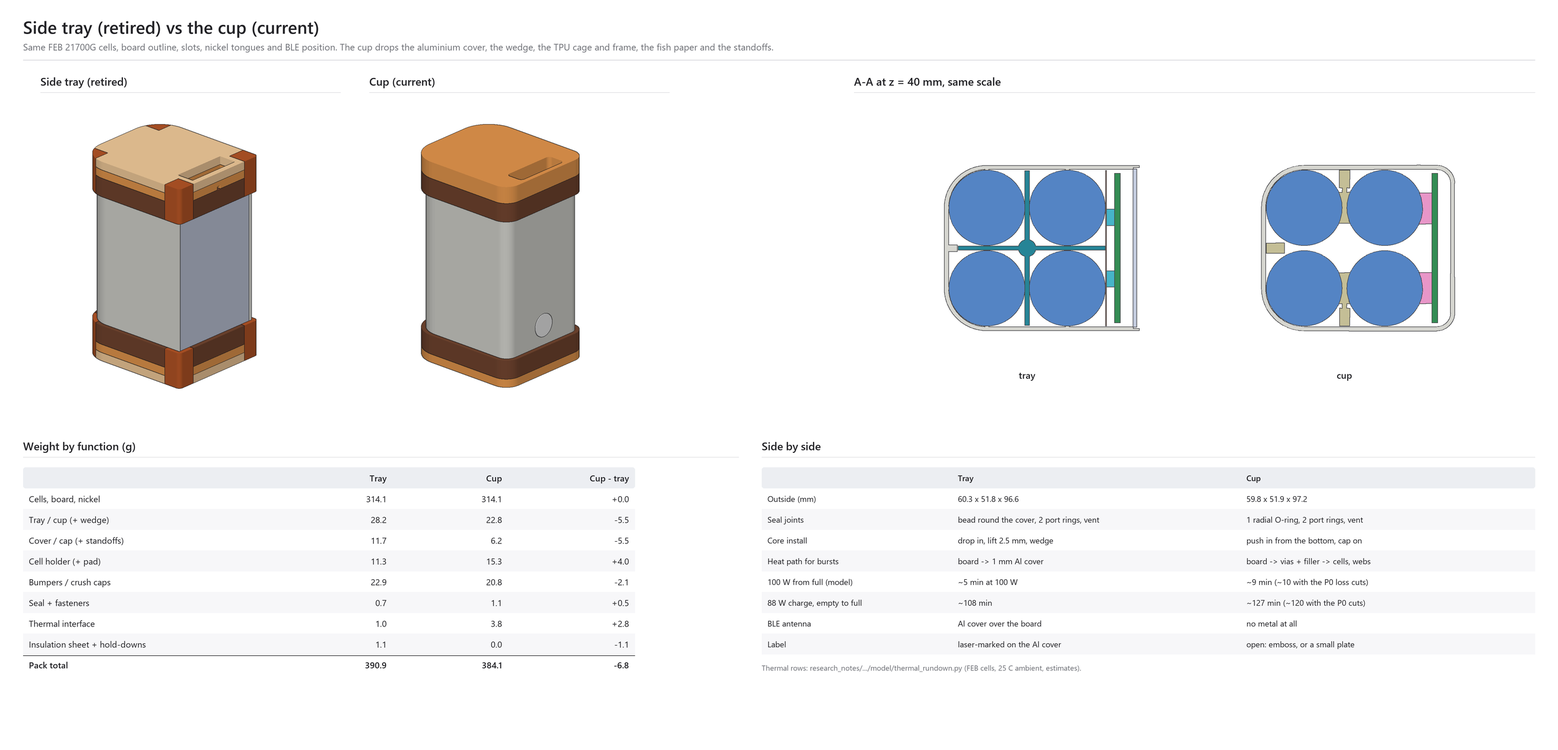
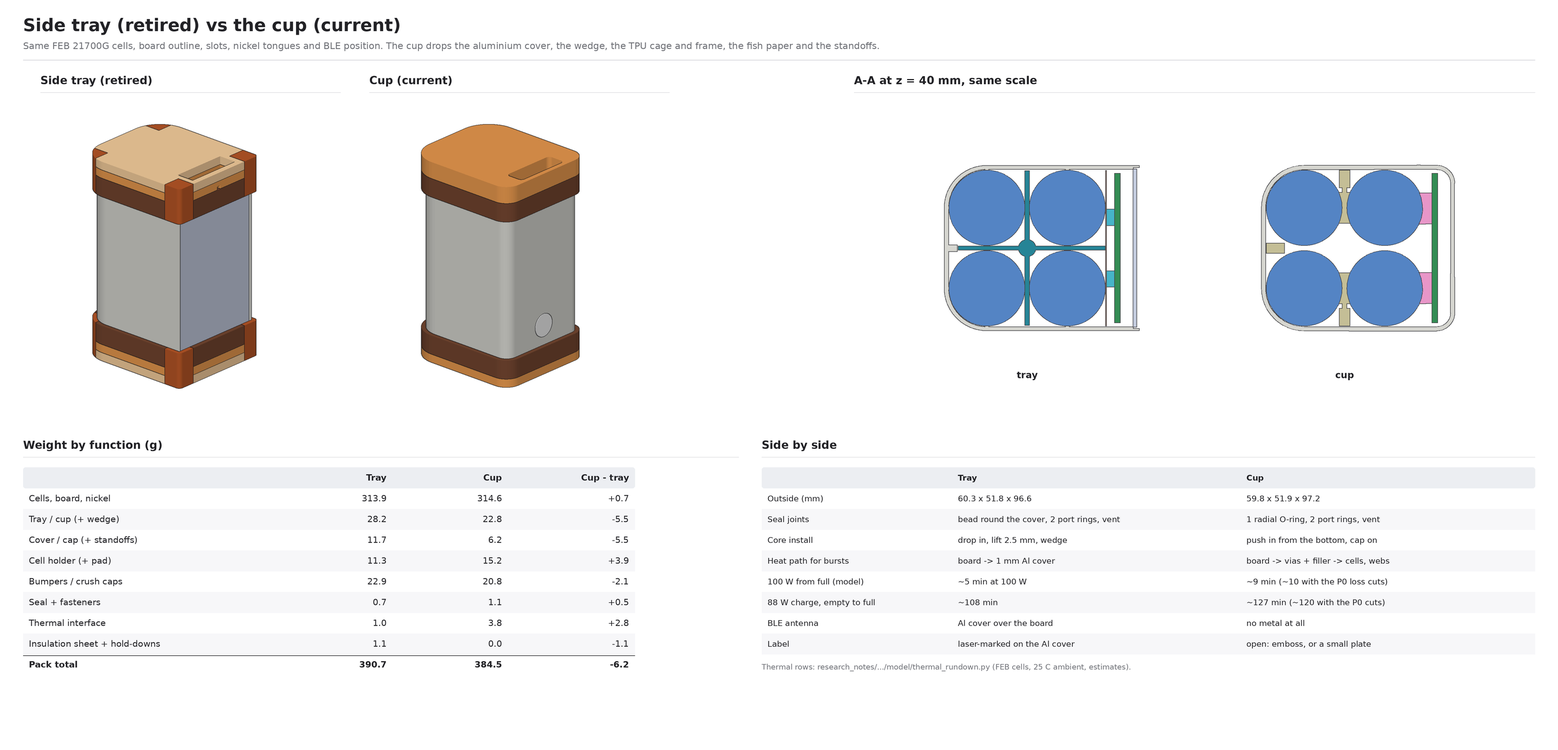
PACK wires to 18 AWG; draw the wire tails in the model
- monolith_shell: 18 AWG thin-wall PTFE power wire (1.45 mm OD), PACK holes 1.3 -> 1.5 mm finished;
  loss print 0.66 mOhm / 0.06 W per end. Side PCB DXF regenerated.
- monolith_parts: nickel_strips() draws the PACK ends as pads (option C) unless pack='tab';
  new pack_wires() for the power and Kelvin wires. Cup assembly, parts list and legend use them.
- Carrier STL (wider power-wire notches) and cup sheets regenerated; wires clear the notched frame.
- spec.md, p0-assembly.md, spot-welding.md: 18 AWG, 1.5 mm holes, loss cut 4 re-scaled (3.9 of 4.4 mOhm).

Claude-Session: https://claude.ai/code/session_01HPr6VYkforG3yX6YkC5z8D

diff --git a/hardware/mechanical/monolith_cup.py b/hardware/mechanical/monolith_cup.py
@@ -42,7 +42,7 @@ WIN_R = 7.0                        # weld / + cap windows in the frames
 FILL_Z = (27.0, 53.0)              # gap filler, board B.Cu to the two front cells, over the power stages
 RAIL_GAP = (25.0, 55.0)            # board rails stop here so the filler reaches the cell tangents
 WIRE_NOTCH_CLR = 0.2               # PACK / Kelvin wire notches through the bottom frame: clearance each side of the wire
-RAIL_RELIEF_Y = 7.6                # below SB_BAR_Z0 the rails keep only |y| <= this, so the PACK tabs and Kelvin fingers pass
+RAIL_RELIEF_Y = 7.6                # below SB_BAR_Z0 the rails keep only |y| <= this, so the PACK and Kelvin wires pass
 WEB_X, WEB_IN, WEB_CLR, WEB_LINK = 2.0, 4.5, 0.05, 0.6   # front-back webs (heat sharing), link out to the side spine
 BUMP_T_TOP, BUMP_T_BOT, BUMP_BAND, BUMP_WALL = 8.0, 4.0, 9.0, 2.0
 PORT_X, PORT_YS = S.sb_port_x, (-S.SB_PORT_Y, S.SB_PORT_Y)
@@ -146,6 +146,7 @@ def assembly():
     for x, y in CELLS: A.append(('cell', mv(cell, (x, y, S.sb_z_cell0)), C['cell']))
     A += [('carrier', tris(carrier()), C['carrier']), ('filler', tris(filler()), C['filler']),
           ('nickel', P.nickel_strips('strips'), C['nickel']), ('tails', P.nickel_strips('tails'), C['tail']),
+          ('tails_wire', P.pack_wires(), C['wire']),
           ('board', P.side_board_dummy(), C['board']), ('ble', P.ble_module(), C['ble']),
           ('pad', tris(pad()), C['pad']), ('oring', tris(oring()), C['oring']), ('cap', tris(cap()), C['cap']),
           ('screw', tris(screws()), C['screw']), ('vent', tris(cylx(VENT_Y, VENT_Z, 5.5, X_IN + WALL, X_IN + WALL + 0.3)), C['vent'])]
@@ -156,7 +157,7 @@ def assembly():
 def group(k): return k.split('_')[0]
 PARTS = [(1, 'Cell carrier: frames, spines, split rails, pegs, front-back webs', 'MJF PA12', 'carrier'),
          (2, 'Cells C1-C4, welded 4S', 'FEB 21700G 6500 mAh', 'cell'),
-         (3, 'Nickel series strips (3)', 'nickel 0.15', 'nickel'), (4, 'Nickel tongues: PACK+/- (power + Kelvin), CELL1-3', 'nickel 0.15 / 0.2', 'tails'),
+         (3, 'Nickel series strips (3)', 'nickel 0.2 x 10', 'nickel'), (4, 'CELL1-3 tails; PACK pads, 18 / 28 AWG wires', 'nickel; PTFE wire', 'tails'),
          (5, 'Gap filler, board to the front cells (dispensed)', '~3 W/mK, 2.6 g/cm3', 'filler'),
          (6, 'Board 1.6 mm, thermal vias under the power stages', 'FR4, 6 layers', 'board'),
          (7, 'Cup: 5 closed sides, USB-C seal bores in the top wall', 'MJF PA12, 1.2 mm', 'cup'),
@@ -191,11 +192,11 @@ def checks():
         'O-ring groove inside the skirt (z)': min(GROOVE_Z[0] - Z_MOUTH, Z_SKIRT1 - GROOVE_Z[1]) - 1.0,
         'screws below the O-ring (outside the seal, z)': (GROOVE_Z[0] - 0.3) - (SCREW_Z + 1.0),
         'board rails clear of the BLE module (y)': S.sb_ant_y[0] - S.SB_BAR_Y[1] - 0.3,
-        'board rails clear of the PACK tabs (y, rail stub to the Kelvin fingers)': min(abs(y0) for n in ('PACK-', 'PACK+')
+        'board rails clear of the PACK pads (y, rail stub to the pad edge)': min(abs(y0) for n in ('PACK-', 'PACK+')
                                                        for y0, y1 in S.sb_fingers(n).values() for y0 in (y0, y1)) - RAIL_RELIEF_Y - 0.5,
         'wire notches: frame left between the power and Kelvin notches (y, >= 1.0)': min(abs(S.sb_pack_holes()[n][0]) - S.SB_PWIRE_OD/2 for n in ('PACK-', 'PACK+'))
                                                        - (abs(S.sb_slots()['4P'][0]) + S.SB_KWIRE_OD/2) - 2*WIRE_NOTCH_CLR - 1.0,
-        'board rails clear of the PACK tabs (z, rail above the tabs)': S.SB_BAR_Z0 - (S.sb_z_tail_b + 0.5),
+        'board rails clear of the PACK pads (z, rail above the pads)': S.SB_BAR_Z0 - (S.sb_z_tail_b + 0.5),
         'gap filler below the BLE module (z)': (S.sb_ant_zc - S.SB_ANT_MOD[0]/2) - FILL_Z[1] - 1.0,
         'webs: room between front and back cells (gap - 2 x clearance)': (2*PR - 2*CR) - 2*WEB_CLR,
         'bore corner radius >= 2 x O-ring cord': R_FRONT - 2*ORING_CS,
@@ -205,7 +206,7 @@ def checks():
 SS, INK, MUTED, RULE, ACCENT = RR.SS, RR.INK, RR.MUTED, RR.RULE, RR.ACCENT
 LEG = [('PA12 cup', C['cup']), ('PA12 cap', C['cap']), ('PA12 carrier', C['carrier']), ('cells', C['cell']), ('board', C['board']),
        ('BLE module', C['ble']), ('gap filler', C['filler']), ('O-ring', C['oring']), ('screw', C['screw']),
-       ('TPU pad / bumper slab', C['pad']), ('TPU bumper band', C['bump']), ('nickel strip', C['nickel']), ('nickel tongue', C['tail'])]
+       ('TPU pad / bumper slab', C['pad']), ('TPU bumper band', C['bump']), ('nickel strip', C['nickel']), ('nickel tail / pad', C['tail']), ('PACK wire', C['wire'])]
 def save(sh, name): sh.img.resize((sh.W, sh.H), Image.LANCZOS).save(os.path.join(HERE, name)); print('wrote', name)
 def balloons(sh, pid, gid, BAL, dist=70):
     for g_ in dict.fromkeys(gid):

diff --git a/hardware/mechanical/monolith_parts.py b/hardware/mechanical/monolith_parts.py
@@ -419,9 +419,12 @@ def _top_tail(sy):
     return [_box(S.sb_pr - 0.01, TAIL_DOWN_X + t, yc - w, yc + w, z0, z0 + t),
             _box(TAIL_DOWN_X, TAIL_DOWN_X + t, yc - w, yc + w, zs - t / 2, z0),
             _box(TAIL_DOWN_X, SLOT_OUT, yc - w, yc + w, zs - t / 2, zs + t / 2)]
-def nickel_strips(which='all'):
-    """series strips, the two split PACK tabs and the three sense tails; bought nickel, not printed.
-    which: 'all', 'strips' (series strips only) or 'tails' (PACK tabs and sense tails only)"""
+PACK_PAD_L = 10.0                             # PACK pad length along x, from 3.5 mm inside the cell centre
+def nickel_strips(which='all', pack='wire'):
+    """series strips, the two PACK ends and the three sense tails; bought nickel, not printed.
+    which: 'all', 'strips' (series strips only) or 'tails' (PACK ends and sense tails only).
+    pack: 'wire' (option C, 2026-10-24: a nickel pad on each PACK end, the wires are pack_wires()) or 'tab' (the split
+    nickel tabs of the retired side tray)"""
     t, hw, pr = S.SB_TAB_T, S.SB_TAB_W / 2, S.sb_pr
     zt0, zb1 = S.sb_z_tail_t, S.sb_z_tail_b
     B = []
@@ -431,11 +434,27 @@ def nickel_strips(which='all'):
               _box(-pr - hw, -pr + hw, -pr, pr, zb1 - t, zb1)]         # C2+ -> C3-  (CELL2), bottom
     if which in ('all', 'tails'):
         T = S.SB_PACK_T
-        for n, yc in S.sb_tab_y.items():                           # PACK tabs: whole to the board side, then split
-            B.append(_box(pr - hw, aS, yc - hw, yc + hw, zb1 - T, zb1))
+        for n, yc in S.sb_tab_y.items():
+            if pack == 'wire':                                     # PACK pads, inside the weld window
+                B.append(_box(pr - S.SB_TAB_W / 2, pr - S.SB_TAB_W / 2 + PACK_PAD_L, yc - hw, yc + hw, zb1 - T, zb1))
+                continue
+            B.append(_box(pr - hw, aS, yc - hw, yc + hw, zb1 - T, zb1))   # PACK tabs: whole to the board side, then split
             for y0, y1 in S.sb_fingers(n).values(): B += _bottom_tail(aS - 0.01, y0, y1, T)
         B += _bottom_tail(-pr + hw - 0.01, -S.SB_TAIL_W / 2, S.SB_TAIL_W / 2, t)    # CELL2
         B += _top_tail(-1) + _top_tail(1)                                            # CELL1, CELL3
+    return np.vstack(B)
+
+def pack_wires():
+    """PACK wire tails (option C): the 18 AWG power and 28 AWG Kelvin wires, soldered under each PACK pad, along their
+    frame notches, across the gap behind the board and through it (square-section stand-ins for the round wires)"""
+    pz0 = S.sb_z_tail_b - S.SB_PACK_T; xs = S.sb_pr + 1.0; xb = S.sb_ac + 0.6; B = []
+    for n in ('PACK-', 'PACK+'):
+        yh, zh, _ = S.sb_pack_holes()[n]; k = '4P' if yh > 0 else '1N'; yk, zk, _ = S.sb_slots()[k]
+        for y, zc, od, cu in ((yh, zh, S.SB_PWIRE_OD, 1.2), (yk, zk, S.SB_KWIRE_OD, 0.32)):
+            r = od / 2
+            B += [_box(xs, xb, y - r, y + r, pz0 - od, pz0),                          # under the pad, along the notch
+                  _box(xb - r, S.sb_xb0, y - r, y + r, pz0 - od, max(pz0, zc + r)),   # up across the gap
+                  _box(S.sb_xb0, S.sb_xb1 + 0.8, y - cu / 2, y + cu / 2, zc - cu / 2, zc + cu / 2)]   # conductor through
     return np.vstack(B)
 
 # ---- cell frame (TPU, rides with the module): ring carrier under the cells, top frame with the bars ----

diff --git a/hardware/mechanical/monolith_shell.py b/hardware/mechanical/monolith_shell.py
@@ -255,12 +255,12 @@ SB_TAIL_TOP_Z = 72.0                 # CELL1 / CELL3 slots (a 5 mm drop behind t
 SB_SLOT_W, SB_SLOT_CLR, SB_SLOT_RING = 0.6, 0.4, 0.4    # plated slot: width (z), length over the tail (y), annular ring
 SB_KINK = (23.35, 24.55, 1.0)        # strain-relief kink in the bottom tails: x from, x to, depth (+0.35 with the FEB cell)
 SB_WIRE_D = 0.8                      # (legacy)
-# PACK wire tails (option C, 2026-10-24): each PACK power path is a 20 AWG PTFE wire, bench-soldered to a 0.2 x 7 nickel
+# PACK wire tails (option C, 2026-10-24): each PACK power path is an 18 AWG PTFE wire, bench-soldered to a 0.2 x 7 nickel
 # pad that is welded to the cell end inside the weld window. It runs through a notch in the carrier's bottom frame
 # (monolith_cup.py), crosses the gap behind the board and is soldered into a plated hole. The Kelvin side (1N / 4P) is
 # a 28 AWG PTFE wire from the same pad, through its own notch, into the existing Kelvin slot.
-SB_PWIRE_OD, SB_KWIRE_OD = 1.2, 0.6  # 20 AWG / 28 AWG PTFE, outside diameter
-SB_PWIRE_HOLE, SB_PWIRE_RING = 1.3, 0.4   # PACK wire plated hole (finished) and its annular ring
+SB_PWIRE_OD, SB_KWIRE_OD = 1.45, 0.6  # 18 AWG thin-wall PTFE (M22759/11-18, 1.37 max) / 28 AWG PTFE, outside diameter
+SB_PWIRE_HOLE, SB_PWIRE_RING = 1.5, 0.4   # PACK wire plated hole (finished; 19/30 strand ~1.22 mm) and its annular ring
 SB_PWIRE_Z = 5.75                    # hole centre: as low as the ring allows over the board's bottom edge
 # derived (x across the board, y along the board width, z along the cells)
 sb_pr = (CELL_D + SB_CAGE_WEB + 2 * SB_CAGE_CLR) / 2   # cell centres at (+-sb_pr, +-sb_pr)
@@ -431,8 +431,8 @@ if __name__ == '__main__':
           for n, (y, z, l) in sb_slots().items()) + f"; slot width {SB_SLOT_W}")
     print("PACK wire holes (KiCad x, y, finished dia): " + ", ".join(f"{n} {kicad(y, z)[0]:.2f}, {kicad(y, z)[1]:.2f}, {d}"
           for n, (y, z, d) in sb_pack_holes().items()) + f"; ring {SB_PWIRE_RING}")
-    r = 6.99e-8 * 0.007 / (7 * SB_PACK_T * 1e-6) + 3.33e-2 * 0.015     # ~7 mm of 0.2 x 7 nickel pad + ~15 mm of 20 AWG
-    print(f"PACK pad + 20 AWG wire: {r*1e3:.2f} mOhm, {9.4**2*r:.2f} W at 9.4 A per tab")
+    r = 6.99e-8 * 0.007 / (7 * SB_PACK_T * 1e-6) + 2.09e-2 * 0.015     # ~7 mm of 0.2 x 7 nickel pad + ~15 mm of 18 AWG
+    print(f"PACK pad + 18 AWG wire: {r*1e3:.2f} mOhm, {9.4**2*r:.2f} W at 9.4 A per tab")
     ys = np.array([0, 2, 4, 6, 8, 15, 18, 21])
     print("inner-face free height vs y: " + ", ".join(f"{y:g}:{d:.1f}" for y, d in zip(ys, side_groove_depth(ys))))
     # assembly checks (positive = clearance)

diff --git a/docs/spec.md b/docs/spec.md
@@ -41,7 +41,7 @@ The pack is four BAK N21700CX-65E 6500 mAh cells in 4S1P, adopted on 2026-10-23 
 | Cycle life | ≥ 80 % at 501 cycles (0.5C charge / 1C discharge, 4.2–2.5 V) |
 | Price | $9.25–9.75 each, bare, no protection. Sold out at both US sellers on 10-23 |
 
-- **Interconnect:** spot-welded pure nickel, with an AWithZ P20B (`docs/production/spot-welding.md`). Series strips 0.2 × 10 mm; the three cell taps are nickel tails through plated slots. **PACK− / PACK+ are wire tails (option C, 2026-10-24):** a 0.2 × 7 mm nickel pad welded to the cell, with a 20 AWG PTFE power wire and a 28 AWG PTFE Kelvin wire soldered to it on the bench. The power wire goes into a Ø1.3 mm plated hole, the Kelvin wire into its slot, through notches in the carrier's bottom frame. Everything is soldered on F.Cu. No springs or connectors.
+- **Interconnect:** spot-welded pure nickel, with an AWithZ P20B (`docs/production/spot-welding.md`). Series strips 0.2 × 10 mm; the three cell taps are nickel tails through plated slots. **PACK− / PACK+ are wire tails (option C, 2026-10-24):** a 0.2 × 7 mm nickel pad welded to the cell, with an 18 AWG thin-wall PTFE power wire (Logan, 2026-10-24) and a 28 AWG PTFE Kelvin wire soldered to it on the bench. The power wire goes into a Ø1.5 mm plated hole, the Kelvin wire into its slot, through notches in the carrier's bottom frame. Everything is soldered on F.Cu. No springs or connectors.
 - **Matching:** all four from one batch, within 10 mV and 1 mΩ (AC 1 kHz). Measure each diameter; the cup is designed to 21.85 mm.
 - **Carrier:** an MJF PA12 carrier holds the cells at 23.25 mm pitch, with webs between the front and back pairs. The board's heat goes into the two front cells, so those run hottest.
 - **Short circuit:** about 220–270 A from the cells' DC resistance (estimated at 12–16 mΩ, since BAK gives no DC figure), and up to about 370 A from the datasheet's ≤ 8 mΩ AC figure, which is closer to how a cell behaves in the first 100 µs of a short. It was 150–200 A with the FEB. This is why the protection FETs change to the BSC007N04LS6 (see Battery management and protection).
@@ -154,7 +154,7 @@ The production P0 board is the design of record and the first board planned to b
 
 **P0 board changes still to apply:**
 
-- [ ] Move the five bottom tab slots 0.30 mm for the 6500 mAh cells and recheck them for the 65E (0.05 mm longer than the FEB); replace the PACK− / PACK+ power slots with Ø1.3 plated holes at KiCad (86.97, 135.73) and (113.03, 135.73) and add the `BCU_WIRE_RUNS` keep-outs (option C); run Update PCB from Schematic (R413/R513 = 0 Ω); apply the four loss cuts (BSC007N04LS6 protection FETs on a new 5 × 6 TDSON-8 FL footprint, gate-drive LDOs, XGL7030-332 with R412/R512 = 49.9k)
+- [ ] Move the five bottom tab slots 0.30 mm for the 6500 mAh cells and recheck them for the 65E (0.05 mm longer than the FEB); replace the PACK− / PACK+ power slots with Ø1.5 plated holes at KiCad (86.97, 135.73) and (113.03, 135.73) and add the `BCU_WIRE_RUNS` keep-outs (option C); run Update PCB from Schematic (R413/R513 = 0 Ω); apply the four loss cuts (BSC007N04LS6 protection FETs on a new 5 × 6 TDSON-8 FL footprint, gate-drive LDOs, XGL7030-332 with R412/R512 = 49.9k)
 - [ ] Cup changes: B.Cu gap-filler zone with a dense thermal-via array, split carrier rails, two Ø2.0 mm peg holes, remove the cover standoffs H101–H104, rerun `make_board.py --keepouts` for the cup
 - [ ] Fix DRC: port 1's stage (U403, Q402, C434, R446, R447) sits in the antenna keep-out; L401 is on B.Cu and belongs on F.Cu
 - [ ] Make C302–C304 0402 instead of 0201; remove the four stranded VBUS traces
@@ -189,7 +189,7 @@ Twenty conflicts turned up. The first eight changed what gets built or coded; Lo
 | 12 | Port protection | Project notes: TPD4S201 with liquid detection | P0 10-18: TPD6S300, liquid detection removed | TPD6S300 |
 | 13 | Charger FETs and inductor | Project notes, dev board: 4 × PGQ04N070, XAL7030-222 | P0: 2 × SiZ240DT, APS0730M2R2F; loss study proposes XGL7030-332 at 500 kHz | P0 parts |
 | 14 | Idle current | Project notes: \~230 µA. P0 low-profile section: "\~150 µA budget" | P0 README: TPD6S300s add \~175 µA | \~400 µA |
-| 15 | Pack wiring on P0 | `p0-bringup-and-training.md`: 16 AWG wire pads J108/J112 | `p0-assembly.md`: nickel tails through plated slots | Slots for the cell taps; PACK± are 20 AWG wires in Ø1.3 plated holes (10-24) |
+| 15 | Pack wiring on P0 | `p0-bringup-and-training.md`: 16 AWG wire pads J108/J112 | `p0-assembly.md`: nickel tails through plated slots | Slots for the cell taps; PACK± are 18 AWG wires in Ø1.5 plated holes (10-24) |
 | 16 | Production board size | Project notes, repo checklist: \~44 × 44 mm double-sided board at the top cap, 0.8 mm, 4 layers | P0: 43.2 × 74.35 mm side board, 1.6 mm, 6 layers | P0 |
 | 17 | Checklist docs | Repo checklist: 10-11 base with STM32WB pin map, ProtoFlow, 10-18 header | Project notes: 10-16 rewrite for the CC2340. Both predate the FEB cells and the cup | This spec |
 | 18 | MCU in older notes | EEPROM programming notes: STM32WB, separate IRQ pins | CC2340, one IRQ\_N line | CC2340 (method unchanged) |
@@ -285,7 +285,7 @@ Logan answered the open questions on 2026-10-23. He approved all four loss cuts 
 | Cells | BAK N21700CX-65E replaces the FEB 21700G | 91 Wh typical (88.9 Wh minimum). Short-circuit current rises to about 220–300 A (checks under Battery management). Firmware keeps the 4.55 A ceiling and the FEB ramp until BAK's table is confirmed. New chemistry ID |
 | Source of truth | This spec goes in the repo as `docs/spec.md` and replaces both next-actions files | Repo PR opened |
 | Spot welder (10-23) | AWithZ P20B; the kWeld plus kCap is dropped | Mains powered, rated 0.3 mm nickel; handheld pens weld through the carrier windows (`docs/production/spot-welding.md`) |
-| PACK tails (10-24) | Wire tails (option C) | Two Ø1.3 plated holes on the board, four carrier frame notches, wires soldered to the nickel pads on the bench. Options compared in `docs/production/pack-tail-options.html` |
+| PACK tails (10-24) | Wire tails (option C), 18 AWG power wires | Two Ø1.5 plated holes on the board, four carrier frame notches, wires soldered to the nickel pads on the bench. Options compared in `docs/production/pack-tail-options.html` |
 
 ## Decided: the charge-ceiling resistor (R413 / R513)
 
@@ -314,8 +314,8 @@ The numbers come from the 2026-10-21 loss study (`research_notes/Loss reduction/
 | 1. Protection FETs → XRS120N04D | 0.03 W | 0.45 W | 0.77 W | 0.18 W | +$0.14 | Part fields only |
 | 2. 9 V gate drive per port | 0 | 0.38–0.43 W | 0.72 W | 0.22 W | +$2–4 | \~25 mm² per port, new parts |
 | 3. XGL7030-332 inductor + 500 kHz | 0.16 W | 0.49 W | 0.76 W | 0.26 W | +$3.2 | Same footprint; one resistor change |
-| 4. Thicker nickel strips, wire PACK tails | 0.02 W | 0.21 W | 0.37 W | 0.11 W | \~$5 | Two Ø1.3 plated holes replace the power slots; carrier frame notches |
-| **Total** | **\~0.2 W** | **\~1.55 W** | **\~2.6 W** | **\~0.75 W** |  |  |
+| 4. Thicker nickel strips, wire PACK tails | 0.02 W | 0.23 W | 0.41 W | 0.12 W | \~$5 | Two Ø1.5 plated holes replace the power slots; carrier frame notches |
+| **Total** | **\~0.2 W** | **\~1.6 W** | **\~2.65 W** | **\~0.8 W** |  |  |
 
 ### 1. Protection FETs: AGM404AP1 → XNRUSEMI XRS120N04D (BSC007N04LS6 since 10-23)
 
@@ -344,8 +344,8 @@ The numbers come from the 2026-10-21 loss study (`research_notes/Loss reduction/
 
 ### 4. Thicker nickel strips and wire PACK tails (option C, 2026-10-24)
 
-- **What:** series strips go from 0.15 × 7 mm to 0.2 × 10 mm pure nickel. The PACK tails become a nickel pad welded at the cell end, with a 20 AWG power wire and a 28 AWG Kelvin wire soldered to it on the bench (in place of the copper tails the 10-21 study proposed). The interconnect drops from about 8.5 mΩ to about 5.0 mΩ. The savings in the table are scaled from the study by resistance (3.5 of 4.4 mΩ).
-- **Cost:** about $5 of strip and wire, under 1 g. Board: the two PACK power slots become Ø1.3 mm plated holes at z 5.75 (`sb_pack_holes()`), with `BCU_WIRE_RUNS` keep-outs. Carrier: four notches through the bottom frame (`wire_notches()`).
+- **What:** series strips go from 0.15 × 7 mm to 0.2 × 10 mm pure nickel. The PACK tails become a nickel pad welded at the cell end, with an 18 AWG power wire and a 28 AWG Kelvin wire soldered to it on the bench (in place of the copper tails the 10-21 study proposed). Each PACK end is about 0.66 mΩ (0.06 W at 9.4 A). The interconnect drops from about 8.5 mΩ to about 4.6 mΩ. The savings in the table are scaled from the study by resistance (3.9 of 4.4 mΩ).
+- **Cost:** about $5 of strip and wire, under 1 g. Board: the two PACK power slots become Ø1.5 mm plated holes at z 5.75 (`sb_pack_holes()`), with `BCU_WIRE_RUNS` keep-outs. Carrier: four notches through the bottom frame (`wire_notches()`).
 - **Risks:** the welder has to weld 0.2 mm reliably (the AWithZ P20B is rated to 0.3 mm); buy from a source that sells real nickel, since nickel-plated steel is 2–3× worse. The solder joint must stay inside the weld window, at least 3 mm from the weld spots. The notches thin the bottom frame, and the wires span only the 2.6 mm gap to the board, so they add little flex.
 - **Check:** 4-wire joint resistance on a test coupon before welding the real pack (`docs/production/spot-welding.md`). Check the notched frame on the first carrier fit print.
 - **Verdict:** yes. It can be decided any time before welding.

diff --git a/docs/production/p0-assembly.md b/docs/production/p0-assembly.md
@@ -20,19 +20,19 @@ The cup is closed on five sides, with the two USB-C seal bores in its top wall. 
 
 | Connection | From | Nickel or wire | Slot (KiCad x, y), length along x × 0.6 mm, or hole |
 |---|---|---|---|
-| PACK− | C1 bottom (can) | 0.2 × 7 nickel pad + 20 AWG PTFE wire | Ø1.3 plated hole at (86.97, 135.73) |
+| PACK− | C1 bottom (can) | 0.2 × 7 nickel pad + 18 AWG PTFE wire | Ø1.5 plated hole at (86.97, 135.73) |
 | 1N (gauge Kelvin) | PACK− pad, 28 AWG PTFE wire | | (91.28, 135.48), 1.6 |
 | CELL2 | C2+ / C3− strip, bottom | 0.15 × 3 tail, along a channel in the carrier's bottom frame, kapton wrapped | (100.00, 135.45), 3.4 |
 | 4P (gauge Kelvin) | PACK+ pad, 28 AWG PTFE wire | | (108.72, 135.48), 1.6 |
-| PACK+ | C4 bottom (+ cap) | 0.2 × 7 nickel pad + 20 AWG PTFE wire | Ø1.3 plated hole at (113.03, 135.73) |
+| PACK+ | C4 bottom (+ cap) | 0.2 × 7 nickel pad + 18 AWG PTFE wire | Ø1.5 plated hole at (113.03, 135.73) |
 | CELL1 | C1+ / C2− strip, top | the strip runs on as a 3 mm tail, down behind the board | (86.10, 69.48), 3.4 |
 | CELL3 | C3+ / C4− strip, top | the same, mirrored | (113.90, 69.48), 3.4 |
 
 The positions come from `sb_slots()` in `hardware/mechanical/monolith_shell.py`; the cup uses the same board, slots and tails. **FEB 21700G (2026-10-21):** the five bottom slots moved 0.30 mm toward the board's bottom edge (the cells sit 0.3 mm lower), and the PACK / Kelvin pairs 0.18 mm outward (wider cell pitch); the CELL1 / CELL3 slots and the board outline are unchanged. They're on the `TAB_SLOTS` and `TAB_SLOT_PADS` layers of `monolith_side_pcb.dxf`.
 
 **Details:**
-- **PACK wire tails (option C, 2026-10-24).** Each PACK end is a 0.2 × 7 mm nickel pad welded to the cell inside the weld window, with two wires soldered to it on the bench before welding: a 20 AWG PTFE power wire and a 28 AWG PTFE Kelvin wire. No wire fits the 0.25 mm gap between the frame and the cell end, so each runs through its own notch in the carrier's bottom frame (`wire_notches()` in `monolith_cup.py`), crosses the 2.6 mm gap and goes into the board: the power wire into a Ø1.3 plated hole (`sb_pack_holes()`, layers `PACK_WIRE_HOLES` / `PACK_WIRE_PADS`), the Kelvin wire into its slot. The Kelvin wire carries no current, so it gives the gauge a true sense at the pad. 1N and 4P must stay separate nets on the board, routed to VC0 / SRN side and VC4.
-- **Power loss:** about 0.7 mΩ per PACK end (7 mm of pad plus 15 mm of 20 AWG), so about 0.07 W each at 9.4 A.
+- **PACK wire tails (option C, 2026-10-24).** Each PACK end is a 0.2 × 7 mm nickel pad welded to the cell inside the weld window, with two wires soldered to it on the bench before welding: an 18 AWG thin-wall PTFE power wire and a 28 AWG PTFE Kelvin wire. No wire fits the 0.25 mm gap between the frame and the cell end, so each runs through its own notch in the carrier's bottom frame (`wire_notches()` in `monolith_cup.py`), crosses the 2.6 mm gap and goes into the board: the power wire into a Ø1.5 plated hole (`sb_pack_holes()`, layers `PACK_WIRE_HOLES` / `PACK_WIRE_PADS`), the Kelvin wire into its slot. The Kelvin wire carries no current, so it gives the gauge a true sense at the pad. 1N and 4P must stay separate nets on the board, routed to VC0 / SRN side and VC4.
+- **Power loss:** about 0.66 mΩ per PACK end (7 mm of pad plus 15 mm of 18 AWG), so about 0.06 W each at 9.4 A.
 - **Short risk:** keep the solder joint inside the weld window, over the pad. On C4 the bottom is the + cap and the rim is the can (−), so a joint out at the rim could short the cell.
 - **Strain relief:** the CELL2 tail has a 1 mm kink in the gap behind the board, and the top tails drop 5 mm behind it before turning into their slots. In the cup the board rides on the carrier, so the kinks only absorb tolerance and heat growth.
 - **Behind B.Cu:** the tails run about 1.1 mm behind B.Cu in the areas on `BCU_TAIL_RUNS`. Only low parts (≤ 0.6 mm) there. The four wires cross the gap in the `BCU_WIRE_RUNS` areas: no B.Cu parts at all there.
@@ -40,7 +40,7 @@ The positions come from `sb_slots()` in `hardware/mechanical/monolith_shell.py`;
 
 **Board changes needed:**
 - Five plated slots, 0.6 mm wide, 0.4 mm annular ring, at the positions above. Check JLC's minimum plated slot width when ordering.
-- Two Ø1.3 mm plated holes with a 0.4 mm ring for the PACK wires, replacing the two power-finger slots. Their centres sit at z 5.75, so each ring clears the board's bottom edge by 0.3 mm.
+- Two Ø1.5 mm plated holes with a 0.4 mm ring for the 18 AWG PACK wires, replacing the two power-finger slots. Their centres sit at z 5.75, so each ring clears the board's bottom edge by 0.2 mm and the frame bars by 0.1 mm.
 - Remove the two 18 AWG PACK holes and the five B.Cu spring contacts.
 - Route 1N and 4P as Kelvin nets to the gauge.
 - Keep-outs: the carrier rails (`BCU_FRAME_BARS`, now split: no rail at z 25–55 mm), the tail runs (`BCU_TAIL_RUNS`), the wire runs (`BCU_WIRE_RUNS`), and the **gap-filler zone** on B.Cu (|y| 7–16 mm, z 27–53 mm: no parts, solid copper, a dense thermal-via array to the power stages on F.Cu).
@@ -54,7 +54,7 @@ The positions come from `sb_slots()` in `hardware/mechanical/monolith_shell.py`;
     - 0.2 × 10 mm pure nickel for the three series strips (loss cut 4). The top two are cut long, so they run on as the CELL1 / CELL3 tails, trimmed to a 3 mm tongue.
     - 0.15 mm nickel, cut to 3 mm, for the CELL2 tail.
     - 0.2 × 7 mm pure nickel for the two PACK pads, about 10 mm long.
-- **Wire:** 20 AWG PTFE (about 1.2 mm OD) for the two PACK power leads and 28 AWG PTFE (about 0.6 mm OD) for the two Kelvin leads, silver-plated stranded copper, about 25 mm each.
+- **Wire:** 18 AWG thin-wall PTFE for the two PACK power leads (M22759/11-18 or similar, 19/30 strand, 1.45 mm OD at most: ordinary 600 V hook-up wire is about 1.8 mm and hangs below the carrier frame) and 28 AWG PTFE (about 0.6 mm OD) for the two Kelvin leads, silver-plated stranded copper, about 25 mm each.
     - Source, and how to check it is real nickel: `spot-welding.md`.
 - **Insulation:** kapton tape for the CELL2 tail. No fish paper: the carrier's frames and webs keep the cans apart and off the board.
 - **Printed parts:**

diff --git a/docs/production/spot-welding.md b/docs/production/spot-welding.md
@@ -15,7 +15,7 @@ How the cells get welded: the welder, the strip, the recipe, and how to qualify 
 | --- | --- | --- | --- |
 | Series strips; the CELL1 / CELL3 tails cut from them | Pure nickel, 99.6 % | 0.2 × 10 mm | diy500amp, Pure Nickel Strip Roll, 5 m |
 | PACK− / PACK+ pads (the wires are soldered to them on the bench) | Pure nickel | 0.2 × 7 mm, cut from the 10 mm roll (or the 0.2 × 8 roll) | Same listing |
-| PACK power leads / Kelvin leads | Silver-plated copper, PTFE insulated | 20 AWG (about 1.2 mm OD) / 28 AWG (about 0.6 mm OD) | Any PTFE hook-up wire supplier |
+| PACK power leads / Kelvin leads | Silver-plated copper, PTFE insulated | 18 AWG thin-wall, M22759/11-18 or similar (1.45 mm OD at most) / 28 AWG (about 0.6 mm OD) | Any PTFE hook-up wire supplier |
 | CELL2 sense tail | Pure nickel | 0.15 mm, slit to 3 mm | Same listing, 0.15 × 10 mm |
 
 **Check the nickel is real** before welding anything. Nickel-plated steel looks identical and has 2–3 times the resistance. Four-wire 100 mm of the 0.2 × 10 strip at 5 A from the bench supply: pure nickel reads about 3.5 mΩ (17 mV). Also leave a scrap in salt water overnight: plated steel rusts at the cut edges.
